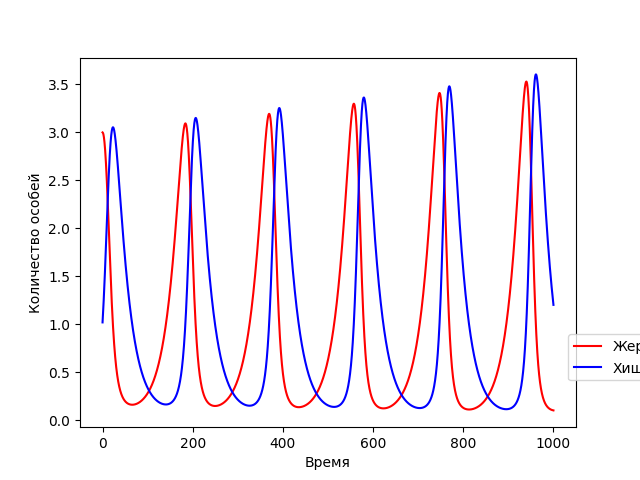
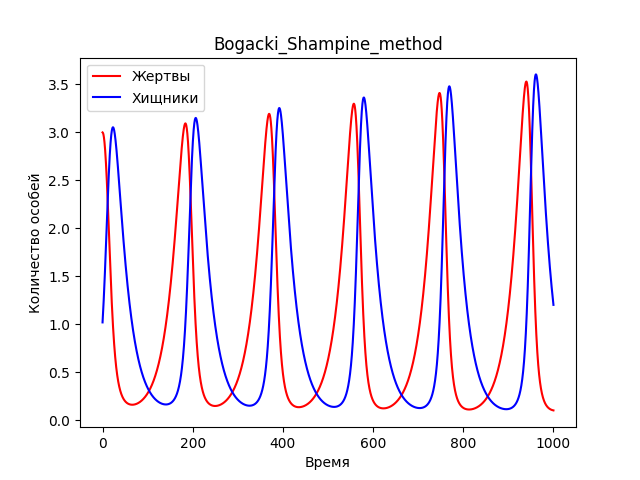
update graphics

Changed region(s): [[0.3125, 0.0625, 0.6875, 0.125], [0.125, 0.125, 0.3125, 0.2188], [0.875, 0.6875, 1.0, 0.7812]]

diff --git a/VM/predator-prey model/main.py b/VM/predator-prey model/main.py
@@ -30,7 +30,8 @@ if __name__ == '__main__':
     plt.ylabel("Количество особей")
     plt.plot(t, x, "red", label="Жертвы")
     plt.plot(t, y, "blue", label="Хищники")
-    plt.legend(bbox_to_anchor=(0.97, 0.27))
+    plt.legend(loc = 'best')
+    plt.title('Bogacki_Shampine_method')
     plt.savefig('Bogacki_Shampine_method')
     plt.show()
 
@@ -47,6 +48,7 @@ if __name__ == '__main__':
     plt.ylabel("Количество особей")
     plt.plot(t, x, "red", label="Жертвы")
     plt.plot(t, y, "blue", label="Хищники")
-    plt.legend(bbox_to_anchor=(0.97, 0.27))
+    plt.legend(loc = 'best')
+    plt.title('runge_kutta_method')
     plt.savefig('runge_kutta_method')
     plt.show()
